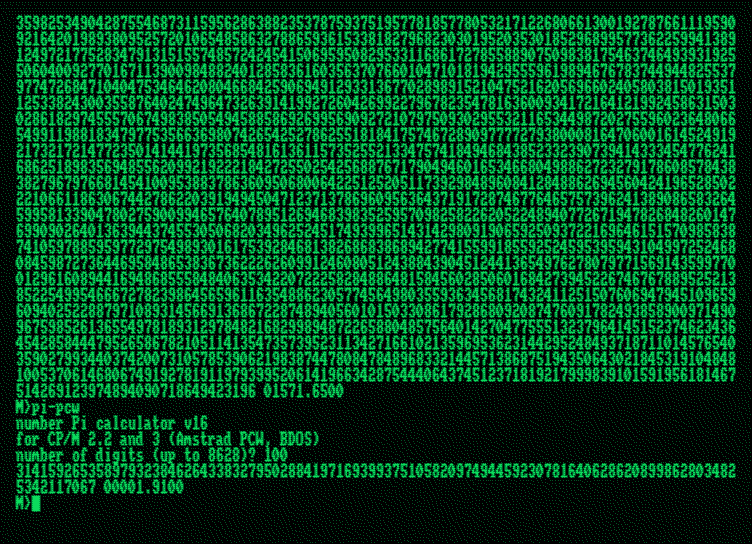
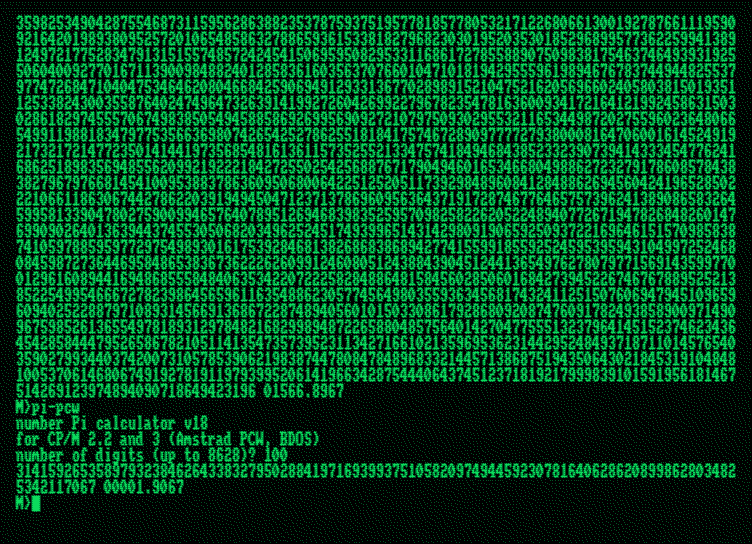
pipack #76

Changed region(s): [[0.0306, 0.6875, 0.6423, 1.0]]

diff --git a/pi-spigot-benchmark/pi-spigot-benchmark.html b/pi-spigot-benchmark/pi-spigot-benchmark.html
@@ -309,7 +309,7 @@ ma.push({computer: "Macintosh SE", OS: "MacOS 3.3", driver: "mac-1", connection:
 ma.push({computer: "Macintosh Classic", OS: "MacOS 7.5", driver: "mac-6", connection: "display", t100: 0.4, t1000: 18.5, t3000: 149.68, maxd: 9224, source: "iron (thanks to Yandex Museum)", estimation: false, comment: "", cpu: "68000", freq: 7.83, year: 1990, href: "https://en.wikipedia.org/wiki/Macintosh_Classic", cpu100: 0.17, cpu1000: 15.9, cpu3000: 142.58, fixed: 0, screenshot: "rp/mac-classic.jpg"})
 ma.push({computer: "BBC Micro (TUBE)", OS: "Pandora", driver: "bbc-pandora-2", connection: "display", t100: 0.24, t1000: 21.3, t3000: 190, maxd: 9188, source: "real iron (thanks to Chris)", estimation: true, comment: "", cpu: "32016", freq: 6, year: 1985, href: "https://en.wikipedia.org/wiki/BBC_Micro_expansion_unit#32016_Second_Processor", cpu100: -1, cpu1000: -1, cpu3000: -1, fixed: 0, screenshot: "rp/bbc-micro-acorn-pandora.png"})
 ma.push({computer: "BBC Micro (TUBE)", OS: "PanOS", driver: "bbc-panos-2", connection: "display", t100: 0.28, t1000: 21.6, t3000: 191, maxd: 9264, source: "real iron (thanks to Chris)", estimation: true, comment: "", cpu: "32016", freq: 6, year: 1985, href: "https://en.wikipedia.org/wiki/BBC_Micro_expansion_unit#32016_Second_Processor", cpu100: -1, cpu1000: -1, cpu3000: -1, fixed: 0, screenshot: "rp/bbc-micro-acorn-panos.png"})
-ma.push({computer: "MSX turbo R", OS: "ROM Basic", driver: "msx-9", connection: "display", t100: 0.23, t1000: 21.7, t3000: 194.35, maxd: 3000, source: "openmsx 0.18.0", estimation: false, comment: "Panasonic FS-A1ST", cpu: "R800", freq: 7.16, year: 1990, href: "https://en.wikipedia.org/wiki/MSX", cpu100: -1, cpu1000: -1, cpu3000: -1, fixed: 0, screenshot: "rp/msx-turbor.png"})
+ma.push({computer: "MSX turbo R", OS: "ROM Basic", driver: "msx-10", connection: "display", t100: 0.23, t1000: 21.62, t3000: 193.7, maxd: 3000, source: "openmsx 0.18.0", estimation: false, comment: "Panasonic FS-A1ST", cpu: "R800", freq: 7.16, year: 1990, href: "https://en.wikipedia.org/wiki/MSX", cpu100: -1, cpu1000: -1, cpu3000: -1, fixed: 0, screenshot: "rp/msx-turbor.png"})
 ma.push({computer: "microPDP-11/83", OS: "RT11SB", driver: "rt11-noeis-11", connection: "terminal", t100: 0.23, t1000: 18.65, t3000: 167.29, maxd: 6396, source: "real iron (thanks to form)", estimation: true, comment: "", cpu: "J11", freq: 18, year: 1985, href: "https://gunkies.org/wiki/PDP-11/83", cpu100: 0.21, cpu1000: 18.38, cpu3000: 166.41, fixed: 1, screenshot: ""})
 ma.push({computer: "PDP-11/93", OS: "2.11BSD", driver: "pdp11-211bsd-noeis-8", connection: "terminal", t100: 0.25, t1000: 19.77, t3000: 174.13, maxd: 6916, source: "real iron (thanks to bqt)", estimation: true, comment: "", cpu: "J11", freq: 18, year: 1985, href: "https://gunkies.org/wiki/PDP-11/93", cpu100: -1, cpu1000: -1, cpu3000: -1, fixed: 0, screenshot: ""})
 ma.push({computer: "IBM PC 5160/XT", OS: "DOS", driver: "ibmpc-7", connection: "display", t100: 0.42, t1000: 23.91, t3000: 201.46, maxd: 9264, source: "real iron (thanks to RadRacer203) ", estimation: false, comment: "0.44/25.15/212.85", cpu: "V20", freq: 4.77, year: 1982, href: "https://en.wikipedia.org/wiki/IBM_Personal_Computer_XT", cpu100: -1, cpu1000: -1, cpu3000: -1, fixed: 0, screenshot: ""})
@@ -335,33 +335,33 @@ ma.push({computer: "TI-99/4A (E/A+32KB RAM)/NTSC", OS: "Basic", driver: "ti99-4a
 ma.push({computer: "BBC Micro (TUBE)", OS: "ROM Basic", driver: "bbc-8", connection: "display", t100: 0.79, t1000: 77.22, t3000: 690.39, maxd: 3800, source: "real iron (thanks to BigEd and Kieran)", estimation: true, comment: "B-em to real iron ratio is 1:1.0214 for 1000, lower for more digits ", cpu: "65C02", freq: 4, year: 1986, href: "https://en.wikipedia.org/wiki/BBC_Micro_expansion_unit#Universal_Second_Processor_Unit", cpu100: -1, cpu1000: -1, cpu3000: -1, fixed: 0, screenshot: ""})
 ma.push({computer: "VAX 11/730", OS: "BSD 4.3", driver: "vax-bsd-1", connection: "tcp/ip", t100: 1.5, t1000: 87.2, t3000: 737, maxd: 9244, source: "real iron (thanks to LCM+L)", estimation: false, comment: "1.499/87.179/736.891", cpu: "KA730", freq: 3.7, year: 1982, href: "https://gunkies.org/wiki/VAX-11/730", cpu100: -1, cpu1000: -1, cpu3000: -1, fixed: 0, screenshot: ""})
 ma.push({computer: "&#x414;BK-2M", OS: "RT11SJ (Y) 5.04", driver: "rt11-noeis-11", connection: "display", t100: .86, t1000: 75.01, t3000: 700.89, maxd: 6156, source: "real iron (thanks to MiX)", estimation: true, comment: "", cpu: "K1801BM3", freq: 6, year: 1987, href: "https://en.wikipedia.org/wiki/DVK", cpu100: 0.79, cpu1000: 74.45, cpu3000: 699.23, fixed: 2, screenshot: ""})  //cpu100, ... are taken from eis-approx
-ma.push({computer: "BBC Micro (TUBE)", OS: "ROM Z80 Basic", driver: "bbc-z80-6", connection: "display", t100: 0.95, t1000: 88.51, t3000: 793.51, maxd: 6216, source: "real iron (thanks to BigEd) + B-em v-756742d", estimation: true, comment: "B-em to real iron ratio is 1:1.00459", cpu: "Z80", freq: 6, year: 1984, href: "https://en.wikipedia.org/wiki/BBC_Micro_expansion_unit#Z80_Second_Processor", cpu100: -1, cpu1000: -1, cpu3000: -1, fixed: 0, screenshot: "rp/bbc-micro-acorn-z80-basic.png"})
-ma.push({computer: "BBC Micro (TUBE)", OS: "CP/M", driver: "cpm22bios-17-acorn", connection: "display", t100: .95, t1000: 88.55, t3000: 793.63, maxd: 8192, source: "real iron (thanks to BigEd) + B-em v-756742d", estimation: true, comment: "B-em to real iron ratio is 1:1.00459", cpu: "Z80", freq: 6, year: 1984, href: "https://en.wikipedia.org/wiki/BBC_Micro_expansion_unit#Z80_Second_Processor", cpu100: -1, cpu1000: -1, cpu3000: -1, fixed: 0, screenshot: "rp/bbc-micro-acorn-z80-cpm.png"})
-ma.push({computer: "BBC Micro (TUBE)", OS: "ROM Basic", driver: "bbc-8", connection: "display", t100: 1.09, t1000: 106.43, t3000: 951.16, maxd: 3800, source: "real iron (thanks to BigEd and hoglet)", estimation: true, comment: "Beebem to real iron ratio is 1:1.0494", cpu: "65C02", freq: 3, year: 1984, href: "http://beebwiki.mdfs.net/6502_Second_Processor", cpu100: -1, cpu1000: -1, cpu3000: -1, fixed: 0, screenshot: ""})
+ma.push({computer: "BBC Micro (TUBE)", OS: "ROM Z80 Basic", driver: "bbc-z80-7", connection: "display", t100: 0.95, t1000: 88.19, t3000: 790.61, maxd: 6216, source: "real iron (thanks to BigEd) + B-em v-756742d", estimation: true, comment: "iron/B-em ratio is 1:1.00494", cpu: "Z80", freq: 6, year: 1984, href: "https://en.wikipedia.org/wiki/BBC_Micro_expansion_unit#Z80_Second_Processor", cpu100: -1, cpu1000: -1, cpu3000: -1, fixed: 0, screenshot: ""})  //1.05 96.65 866.43 v3 pack 24 //rp/bbc-micro-acorn-z80-basic.png
+ma.push({computer: "BBC Micro (TUBE)", OS: "CP/M", driver: "cpm22bios-18-acorn", connection: "display", t100: .95, t1000: 88.23, t3000: 790.73, maxd: 8192, source: "real iron (thanks to BigEd) + B-em v-756742d", estimation: true, comment: "iron/B-em ratio is 1:1.00459", cpu: "Z80", freq: 6, year: 1984, href: "https://en.wikipedia.org/wiki/BBC_Micro_expansion_unit#Z80_Second_Processor", cpu100: -1, cpu1000: -1, cpu3000: -1, fixed: 0, screenshot: ""}) //rp/bbc-micro-acorn-z80-cpm.png
+ma.push({computer: "BBC Micro (TUBE)", OS: "ROM Basic", driver: "bbc-8", connection: "display", t100: 1.09, t1000: 106.43, t3000: 951.16, maxd: 3800, source: "real iron (thanks to BigEd and hoglet)", estimation: true, comment: "iron/B-em ratio is 1:1.00494", cpu: "65C02", freq: 3, year: 1984, href: "http://beebwiki.mdfs.net/6502_Second_Processor", cpu100: -1, cpu1000: -1, cpu3000: -1, fixed: 0, screenshot: ""})
 ma.push({computer: "&#x414;BK-2M", OS: "RT11SJ (Y) 5.04", driver: "rt11-noeis-11", connection: "display", t100: 1.04, t1000: 92.51, t3000: 825.63, maxd: 6156, source: "real iron (thanks to MiX)", estimation: true, comment: "", cpu: "K1801BM2", freq: 8.3, year: 1986, href: "https://en.wikipedia.org/wiki/DVK", cpu100: -1, cpu1000: -1, cpu3000: -1, fixed: 0, screenshot: ""})
 ma.push({computer: "PDP-11/34A", OS: "RT11 5.01 XM", driver: "rt11-noeis-11", connection: "display", t100: 1.2, t1000: 102.11, t3000: 908.11, maxd: 6396, source: "real iron (thanks to elb) ", estimation: true, comment: "", cpu: "KD11-EA", freq: 16.7, year: 1978, href: "https://gunkies.org/wiki/PDP-11/34A", cpu100: -1, cpu1000: -1, cpu3000: -1, fixed: 0, screenshot: ""})
 ma.push({computer: "&#x423;KH&#x426;", OS: "RT11SB 5.07", driver: "rt11-noeis-11", connection: "display", t100: 1.28, t1000: 109.48, t3000: 974.96, maxd: 6624, source: "UKNCBTL 1.0 11-02-2024", estimation: false, comment: "", cpu: "K1801BM2", freq: 8, year: 1987, href: "https://en.wikipedia.org/wiki/UKNC", cpu100: -1, cpu1000: -1, cpu3000: -1, fixed: 0, screenshot: "rp/uknc-noeis.png"})
 ma.push({computer: "Commodore +4/PAL", OS: "ROM Basic", driver: "plus4-13", connection: "display", t100: 1.48, t1000: 143.53, t3000: 1281.52, maxd: 8080, source: "real iron", estimation: false, comment: "", cpu: "7501", freq: 2.2, year: 1984, href: "https://en.wikipedia.org/wiki/Commodore_Plus/4", cpu100: -1, cpu1000: -1, cpu3000: -1, fixed: 0, screenshot: "rp/plus4-pal.png"})
 ma.push({computer: "Commodore +4/NTSC", OS: "ROM Basic", driver: "plus4-13", connection: "display", t100: 1.83, t1000: 177.45, t3000: 1584.5, maxd: 8080, source: "plus4emu 1.2.9.2", estimation: false, comment: "", cpu: "7501", freq: 1.79, year: 1984, href: "https://en.wikipedia.org/wiki/Commodore_Plus/4", cpu100: -1, cpu1000: -1, cpu3000: -1, fixed: 0, screenshot: "rp/plus4-ntsc.png"})
-ma.push({computer: "BBC Micro (TUBE Torch)", OS: "CPN", driver: "cpm22bdos-17-torch", connection: "display", t100: 1.41, t1000: 134.9, t3000: 1200.11, maxd: 8676, source: "real iron (thanks to danielj) + BeebEm 4.19", estimation: true, comment: "", cpu: "Z80", freq: 4, year: 1984, href: "https://en.wikipedia.org/wiki/BBC_Micro_expansion_unit#Other_Second_Processors", cpu100: -1, cpu1000: -1, cpu3000: -1, fixed: 0, screenshot: "rp/bbc-micro-torch-cpn.png"}) //the original data from danielj was for v3/pack #16, Beebem 4.19 to real iron ratio is 1:1.32 [100], 1:1.41 [1000/3000]
+ma.push({computer: "BBC Micro (TUBE Torch)", OS: "CPN", driver: "cpm22bdos-18-torch", connection: "display", t100: 1.41, t1000: 134.41, t3000: 1195.72, maxd: 8676, source: "real iron (thanks to danielj) + BeebEm 4.19", estimation: true, comment: "", cpu: "Z80", freq: 4, year: 1984, href: "https://en.wikipedia.org/wiki/BBC_Micro_expansion_unit#Other_Second_Processors", cpu100: -1, cpu1000: -1, cpu3000: -1, fixed: 0, screenshot: ""}) //the original data from danielj was for v3/pack #16, Beebem 4.19 to real iron ratio is 1:1.32 [100], 1:1.41 [1000/3000] //rp/bbc-micro-torch-cpn.png
 ma.push({computer: "BBC Micro", OS: "ROM Basic", driver: "bbc-8", connection: "display", t100: 1.64, t1000: 157.85, t3000: 1409.76, maxd: 3436, source: "real iron (thanks to BigEd and hoglet)", estimation: true, comment: "B-em to real iron ratio is 1:1", cpu: "6502", freq: 2, year: 1981, href: "https://en.wikipedia.org/wiki/BBC_Micro", cpu100: -1, cpu1000: -1, cpu3000: -1, fixed: 0, screenshot: "rp/bbc-micro.png"})
 ma.push({computer: "Tandy CoCo 3/NTSC", OS: "ROM Basic", driver: "coco-2", connection: "display", t100: 1.68, t1000: 155.13, t3000: 1391.67, maxd: 3064, source: "XRoar 1.07", estimation: false, comment: "", cpu: "6809", freq: 1.79, year: 1986, href: "https://en.wikipedia.org/wiki/TRS-80_Color_Computer", cpu100: -1, cpu1000: -1, cpu3000: -1, fixed: 0, screenshot: "rp/coco3.png"})
 ma.push({computer: "Tandy CoCo 2B/NTSC", OS: "ROM Basic", driver: "coco-1", connection: "display", t100: 1.7, t1000: 156.43, t3000: 1403.35, maxd: 3032, source: "XRoar 0.34.1", estimation: false, comment: "XRoar 0.34.1 1.7/157.6/1414", cpu: "6809", freq: 1.79, year: 1983, href: "https://en.wikipedia.org/wiki/TRS-80_Color_Computer", cpu100: -1, cpu1000: -1, cpu3000: -1, fixed: 0, screenshot: "rp/coco2b.png"})
 ma.push({computer: "Dragon 32", OS: "ROM Basic", driver: "dragon-4", connection: "display", t100: 1.72, t1000: 157.54, t3000: 1413.93, maxd: 3100, source: "real iron (thanks to robcfg)", estimation: false, comment: "XRoar 0.34.1 1.7/157.6/1414", cpu: "6809", freq: 1.78, year: 1982, href: "https://en.wikipedia.org/wiki/Dragon_32/64", cpu100: -1, cpu1000: -1, cpu3000: -1, fixed: 0, screenshot: "rp/dragon32.png"})
 ma.push({computer: "Commodore 128/NTSC", OS: "ROM Basic", driver: "c128-14", connection: "display-40", t100: 1.5, t1000: 155.1, t3000: 1384.6, maxd: 5376, source: "VICE 3.7.1", estimation: false, comment: "", cpu: "8502", freq: 2.05, year: 1985, href: "https://en.wikipedia.org/wiki/Commodore_128", cpu100: -1, cpu1000: -1, cpu3000: -1, fixed: 0, screenshot: "rp/c128-ntsc.png"})
 ma.push({computer: "Commodore 128/PAL", OS: "ROM Basic", driver: "c128-14", connection: "display-40", t100: 1.6, t1000: 161.1, t3000: 1439.1, maxd: 5376, source: "VICE 3.7.1", estimation: false, comment: "", cpu: "8502", freq: 1.97, year: 1985, href: "https://en.wikipedia.org/wiki/Commodore_128", cpu100: 1.6, cpu1000: 160.6, cpu3000: 1436.8, fixed: 0, screenshot: "rp/c128-pal.png"})  //5376 - 4615.5s
-ma.push({computer: "ZX Spectrum 48k", OS: "ROM Basic", driver: "zx-4", connection: "display", t100: 1.72, t1000: 153.93, t3000: 1374.5, maxd: 4400, source: "ep128emu 2.0.11", estimation: false, comment: "", cpu: "Z80", freq: 3.5, year: 1982, href: "https://en.wikipedia.org/wiki/ZX_Spectrum", cpu100: -1, cpu1000: -1, cpu3000: -1, fixed: 0, screenshot: "rp/zx.png"})
-ma.push({computer: "Amstrad CPC6128", OS: "ROM Basic", driver: "cpc-10", connection: "display", t100: 1.87, t1000: 161.07, t3000: 1435.38, maxd: 5500, source: "ep128emu 2.0.11", estimation: false, comment: "", cpu: "Z80", freq: 4, year: 1985, href: "https://en.wikipedia.org/wiki/Amstrad_CPC", cpu100: -1, cpu1000: -1, cpu3000: -1, fixed: 0, screenshot: "rp/cpc6128-basic.png"})
-ma.push({computer: "Tiki-100", OS: "KP/M", driver: "cpm22bios-17-tiki100", connection: "display", t100: 1.86, t1000: 160.91, t3000: 1435.42, maxd: 7604, source: "real iron (thanks to per) + tikiemul 1.1.1", estimation: true, comment: "", cpu: "Z80", freq: 4, year: 1984, href: "https://en.wikipedia.org/wiki/Tiki_100", cpu100: -1, cpu1000: -1, cpu3000: -1, fixed: 0, screenshot: ""}) //rp/tiki-100.png
-ma.push({computer: "Amstrad CPC6128", OS: "CP/M 2.2", driver: "cpm22bios-16-cpc6128", connection: "display", t100: 1.98, t1000: 169.01, t3000: 1504.83, maxd: 5960, source: "ep128emu 2.0.11", estimation: false, comment: "", cpu: "Z80", freq: 4, year: 1985, href: "https://en.wikipedia.org/wiki/Amstrad_CPC", cpu100: -1, cpu1000: -1, cpu3000: -1, fixed: 0, screenshot: "rp/cpc6128-cpm22.png"})
-ma.push({computer: "Amstrad CPC6128", OS: "CP/M 3", driver: "cpc-cpm3-13", connection: "display", t100: 2.18, t1000: 176.84, t3000: 1566.27, maxd: 8628, source: "ep128emu 2.0.11", estimation: false, comment: "", cpu: "Z80", freq: 4, year: 1985, href: "https://en.wikipedia.org/wiki/Amstrad_CPC", cpu100: 1.87, cpu1000: 172.66, cpu3000: 1555.62, fixed: 0, screenshot: "rp/cpc6128-cpm3.png"})
-ma.push({computer: "Amstrad CPC6128", OS: "CP/M 3", driver: "cpc-cpm3-13", connection: "disk", t100: 3.61, t1000: 176.47, t3000: 1564.80, maxd: 8336, source: "ep128emu 2.0.11", estimation: false, comment: "", cpu: "Z80", freq: 4, year: 1985, href: "https://en.wikipedia.org/wiki/Amstrad_CPC", cpu100: -1, cpu1000: -1, cpu3000: -1, fixed: 0, screenshot: ""})
-ma.push({computer: "Amstrad PCW8256", OS: "CP/M 3", driver: "cpm22bdos-16-pcw8256", connection: "display", t100: 1.9, t1000: 175.47, t3000: 1571.65, maxd: 8628, source: "CP/M Box 1.9.2", estimation: false, comment: "", cpu: "Z80", freq: 4, year: 1985, href: "https://en.wikipedia.org/wiki/Amstrad_PCW", cpu100: -1, cpu1000: -1, cpu3000: -1, fixed: 0, screenshot: "rp/pcw8256.png"})
-ma.push({computer: "ABC 802", OS: "ROM Basic", driver: "abc800-3", connection: "display", t100: 1.91, t1000: 176.13, t3000: 1578.73, maxd: 3084, source: "MAME/MESS 0.239", estimation: false, comment: "", cpu: "Z80", freq: 3, year: 1981, href: "https://en.wikipedia.org/wiki/ABC_800", cpu100: -1, cpu1000: -1, cpu3000: -1, fixed: 0, screenshot: "rp/abc802.png"})
+ma.push({computer: "ZX Spectrum 48k", OS: "ROM Basic", driver: "zx-5", connection: "display", t100: 1.72, t1000: 153.45, t3000: 1370.27, maxd: 4400, source: "ep128emu 2.0.11", estimation: false, comment: "", cpu: "Z80", freq: 3.5, year: 1982, href: "https://en.wikipedia.org/wiki/ZX_Spectrum", cpu100: -1, cpu1000: -1, cpu3000: -1, fixed: 0, screenshot: "rp/zx.png"})
+ma.push({computer: "Amstrad CPC6128", OS: "ROM Basic", driver: "cpc-11", connection: "display", t100: 1.87, t1000: 160.59, t3000: 1431.05, maxd: 5500, source: "ep128emu 2.0.11", estimation: false, comment: "", cpu: "Z80", freq: 4, year: 1985, href: "https://en.wikipedia.org/wiki/Amstrad_CPC", cpu100: -1, cpu1000: -1, cpu3000: -1, fixed: 0, screenshot: "rp/cpc6128-basic.png"})
+ma.push({computer: "Tiki-100", OS: "KP/M", driver: "cpm22bios-18-tiki100", connection: "display", t100: 1.86, t1000: 160.33, t3000: 1430.17, maxd: 7604, source: "real iron (thanks to per) + tikiemul 1.1.1", estimation: true, comment: "", cpu: "Z80", freq: 4, year: 1984, href: "https://en.wikipedia.org/wiki/Tiki_100", cpu100: -1, cpu1000: -1, cpu3000: -1, fixed: 0, screenshot: ""}) //rp/tiki-100.png
+ma.push({computer: "Amstrad CPC6128", OS: "CP/M 2.2", driver: "cpm22bios-18-cpc6128", connection: "display", t100: 1.98, t1000: 168.51, t3000: 1500.33, maxd: 5960, source: "ep128emu 2.0.11", estimation: false, comment: "", cpu: "Z80", freq: 4, year: 1985, href: "https://en.wikipedia.org/wiki/Amstrad_CPC", cpu100: -1, cpu1000: -1, cpu3000: -1, fixed: 0, screenshot: "rp/cpc6128-cpm22.png"})
+ma.push({computer: "Amstrad CPC6128", OS: "CP/M 3", driver: "cpc-cpm3-14", connection: "display", t100: 2.16, t1000: 176.3, t3000: 1561.58, maxd: 8628, source: "ep128emu 2.0.11", estimation: false, comment: "", cpu: "Z80", freq: 4, year: 1985, href: "https://en.wikipedia.org/wiki/Amstrad_CPC", cpu100: 1.87, cpu1000: 172.95, cpu3000: 1550.91, fixed: 0, screenshot: "rp/cpc6128-cpm3.png"})
+ma.push({computer: "Amstrad CPC6128", OS: "CP/M 3", driver: "cpc-cpm3-14", connection: "disk", t100: 3.43, t1000: 175.95, t3000: 1560.66, maxd: 8336, source: "ep128emu 2.0.11", estimation: false, comment: "", cpu: "Z80", freq: 4, year: 1985, href: "https://en.wikipedia.org/wiki/Amstrad_CPC", cpu100: -1, cpu1000: -1, cpu3000: -1, fixed: 0, screenshot: ""})
+ma.push({computer: "Amstrad PCW8256", OS: "CP/M 3", driver: "cpm22bdos-18-pcw8256", connection: "display", t100: 1.9, t1000: 174.98, t3000: 1566.9, maxd: 8628, source: "CP/M Box 1.9.2", estimation: false, comment: "", cpu: "Z80", freq: 4, year: 1985, href: "https://en.wikipedia.org/wiki/Amstrad_PCW", cpu100: -1, cpu1000: -1, cpu3000: -1, fixed: 0, screenshot: "rp/pcw8256.png"})
+ma.push({computer: "ABC 802", OS: "ROM Basic", driver: "abc800-4", connection: "display", t100: 1.9, t1000: 175.54, t3000: 1573.45, maxd: 3084, source: "MAME/MESS 0.239", estimation: false, comment: "", cpu: "Z80", freq: 3, year: 1981, href: "https://en.wikipedia.org/wiki/ABC_800", cpu100: -1, cpu1000: -1, cpu3000: -1, fixed: 0, screenshot: "rp/abc802.png"})
 ma.push({computer: "Atari 800XL/NTSC", OS: "ROM Basic", driver: "atari800xl-6", connection: "display", t100: 1.9, t1000: 185.5, t3000: 1655.99, maxd: 4536, source: "atari800 4.2.0", estimation: false, comment: "", cpu: "6502", freq: 1.79, year: 1983, href: "https://en.wikipedia.org/wiki/Atari_8-bit_family", cpu100: -1, cpu1000: -1, cpu3000: -1, fixed: 0, screenshot: "rp/atari800xl-ntsc.png"})
 ma.push({computer: "Atari 800XL/PAL", OS: "ROM Basic", driver: "atari800xl-6", connection: "display", t100: 1.93, t1000: 187.1, t3000: 1670.48, maxd: 4536, source: "atari800 4.2.0", estimation: false, comment: "", cpu: "6502", freq: 1.77, year: 1983, href: "https://en.wikipedia.org/wiki/Atari_8-bit_family", cpu100: -1, cpu1000: -1, cpu3000: -1, fixed: 0, screenshot: "rp/atari800xl-pal.png"})
-ma.push({computer: "Sanyo MPC-25FD", OS: "ROM Basic", driver: "msx-9", connection: "display", t100: 2.03, t1000: 186.27, t3000: 1668.82, maxd: 3000, source: "openmsx 0.18.0", estimation: false, comment: "MSX 1, 2, 2+", cpu: "Z80", freq: 3.58, year: 1985, href: "https://en.wikipedia.org/wiki/MSX", cpu100: -1, cpu1000: -1, cpu3000: -1, fixed: 0, screenshot: "rp/msx-basic.png"})
-ma.push({computer: "Sanyo MPC-25FD", OS: "MSX DOS", driver: "cpm22bdos-16-msx", connection: "display", t100: 2.17, t1000: 193.0, t3000: 1721.87, maxd: 7424, source: "openmsx 0.18.0", estimation: false, comment: "MSX 2", cpu: "Z80", freq: 3.58, year: 1985, href: "https://en.wikipedia.org/wiki/MSX", cpu100: -1, cpu1000: -1, cpu3000: -1, fixed: 0, screenshot: "rp/msx-dos.png"})
+ma.push({computer: "Sanyo MPC-25FD", OS: "ROM Basic", driver: "msx-10", connection: "display", t100: 2.03, t1000: 185.6, t3000: 1662.72, maxd: 3000, source: "openmsx 0.18.0", estimation: false, comment: "MSX 1, 2, 2+", cpu: "Z80", freq: 3.58, year: 1985, href: "https://en.wikipedia.org/wiki/MSX", cpu100: -1, cpu1000: -1, cpu3000: -1, fixed: 0, screenshot: "rp/msx-basic.png"})
+ma.push({computer: "Sanyo MPC-25FD", OS: "MSX DOS", driver: "cpm22bdos-18-msx", connection: "display", t100: 2.22, t1000: 192.28, t3000: 1715.55, maxd: 7424, source: "openmsx 0.18.0", estimation: false, comment: "MSX 2", cpu: "Z80", freq: 3.58, year: 1985, href: "https://en.wikipedia.org/wiki/MSX", cpu100: -1, cpu1000: -1, cpu3000: -1, fixed: 0, screenshot: "rp/msx-dos.png"})
 ma.push({computer: "&#x411;K0011M", OS: "&#x411;K0010 ROM emu", driver: "bk11-9", connection: "display", t100: 2.51, t1000: 217.86, t3000: 1943.43, maxd: 4388, source: "gid-emu v4.3.2305.8825", estimation: false, comment: "", cpu: "K1801BM1", freq: 4, year: 1989, href: "https://en.wikipedia.org/wiki/Electronika_BK", cpu100: -1, cpu1000: -1, cpu3000: -1, fixed: 0, screenshot: "rp/bk0011m.png"})
 ma.push({computer: "&#x411;K0010", OS: "ROM Monitor", driver: "bk10-9", connection: "display", t100: 2.71, t1000: 232.93, t3000: 2076.880, maxd: 3800, source: "BK2010 v0.7", estimation: false, comment: "", cpu: "K1801BM1", freq: 3, year: 1985, href: "https://en.wikipedia.org/wiki/Electronika_BK", cpu100: -1, cpu1000: -1, cpu3000: -1, fixed: 0, screenshot: "rp/bk0010.png"})
 ma.push({computer: "&#x411;K0011M", OS: "ROM Monitor", driver: "bk11-bos-9", connection: "display", t100: 2.61, t1000: 218.9, t3000: 1946.35, maxd: 4240, source: "gid-emu v4.3.2305.8825", estimation: false, comment: "", cpu: "K1801BM1", freq: 4, year: 1989, href: "https://en.wikipedia.org/wiki/Electronika_BK", cpu100: -1, cpu1000: -1, cpu3000: -1, fixed: 0, screenshot: "rp/bk0011m-bos.png"})
@@ -381,22 +381,22 @@ ma.push({computer: "Apple IIc", OS: "Applesoft Basic", driver: "apple2c-65c02-2"
 ma.push({computer: "Apple IIe", OS: "Applesoft Basic", driver: "apple2e-2", connection: "display", t100: 3.17, t1000: 311.58, t3000: 2784.5, maxd: 4748, source: "MAME 0.229", estimation: false, comment: "", cpu: "6502", freq: 1.02, year: 1983, href: "https://en.wikipedia.org/wiki/Apple_IIe", cpu100: -1, cpu1000: -1, cpu3000: -1, fixed: 0, screenshot: ""})
 ma.push({computer: "Kop&#x432;e&#x442;", OS: "CP/M 2.2", driver: "cpm22bios-8080-7-korvet", connection: "display", t100: 2.68, t1000: 230.54, t3000: 2045.66, maxd: 7496, source: "Emu80 4.0.457", estimation: false, comment: "", cpu: "8080", freq: 2.5, year: 1987, href: "https://en.wikipedia.org/wiki/Corvette_(computer)", cpu100: 2.64, cpu1000: 229.92, cpu3000: 2043.5, fixed: 0, screenshot: "rp/korvet.png"})
 ma.push({computer: "Kop&#x432;e&#x442;", OS: "CP/M 2.2", driver: "cpm22bdos-8080-6-korvet", connection: "display", t100: 2.72, t1000: 230.82, t3000: 2046.52, maxd: 6984, source: "Emu80 4.0.457", estimation: false, comment: "", cpu: "8080", freq: 2.5, year: 1987, href: "https://en.wikipedia.org/wiki/Corvette_(computer)", cpu100: -1, cpu1000: -1, cpu3000: -1, fixed: 0, screenshot: "rp/korvet-bdos.png"})
-ma.push({computer: "Tandy TRS-80 Model I", OS: "TRSDOS 2.3", driver: "trsdos-m1-3", connection: "display", t100: 3.38, t1000: 310.03, t3000: 2779.63, maxd: 6032, source: "trs80gp v2.5.3", estimation: false, comment: "", cpu: "Z80", freq: 1.77, year: 1977, href: "https://en.wikipedia.org/wiki/TRS-80", cpu100: -1, cpu1000: -1, cpu3000: -1, fixed: 0, screenshot: "rp/trs-80-m1.png"})
-ma.push({computer: "Tandy TRS-80 Model II", OS: "Pickles &amp; Trout CP/M", driver: "cpm22pt-bios-17", connection: "display", t100: 1.47, t1000: 134.8, t3000: 1207.22, maxd: 8192, source: "trs80gp v2.5.3", estimation: false, comment: "", cpu: "Z80", freq: 4.00, year: 1979, href: "https://en.wikipedia.org/wiki/TRS-80_Model_II", cpu100: -1, cpu1000: -1, cpu3000: -1, fixed: 0, screenshot: "rp/trs-80-m2.png"})
-ma.push({computer: "Tandy TRS-80 Model III", OS: "TRSDOS 1.3", driver: "trsdos-m3-3", connection: "display", t100: 2.9, t1000: 264.87, t3000: 2371.9, maxd: 6032, source: "trs80gp v2.5.3", estimation: false, comment: "", cpu: "Z80", freq: 2.03, year: 1980, href: "https://en.wikipedia.org/wiki/TRS-80", cpu100: -1, cpu1000: -1, cpu3000: -1, fixed: 0, screenshot: "rp/trs-80-m3.png"})
-ma.push({computer: "Tandy TRS-80 Model 4", OS: "TRSDOS 6.2", driver: "trsdos-m4-3", connection: "display", t100: 1.97, t1000: 177.97, t3000: 1592.93, maxd: 7276, source: "trs80gp v2.5.3", estimation: false, comment: "", cpu: "Z80", freq: 4.06, year: 1983, href: "https://en.wikipedia.org/wiki/TRS-80_Model_4", cpu100: -1, cpu1000: -1, cpu3000: -1, fixed: 0, screenshot: "rp/trs-80-m4.png"})
-ma.push({computer: "Tandy TRS-80 Model 4P or D", OS: "TRSDOS 6.2", driver: "trsdos-m4-3", connection: "display", t100: 1.52, t1000: 137.05, t3000: 1226.55, maxd: 7276, source: "trs80gp v2.5.3", estimation: false, comment: "", cpu: "Z80", freq: 4.06, year: 1983, href: "https://en.wikipedia.org/wiki/TRS-80_Model_4", cpu100: -1, cpu1000: -1, cpu3000: -1, fixed: 0, screenshot: "rp/trs-80-m4p.png"})
-ma.push({computer: "Commodore 128/NTSC", OS: "CP/M 3", driver: "cpm22bdos-16-c128", connection: "display-40", t100: 3.2, t1000: 263.3, t3000: 2338.6, maxd: 8156, source: "VICE 3.8", estimation: false, comment: "", cpu: "Z80", freq: 2.05, year: 1985, href: "https://en.wikipedia.org/wiki/Commodore_128", cpu100: 2.8, cpu1000: 259.2, cpu3000: 2325.4, fixed: 0, screenshot: "rp/c128-cpm-40col-ntsc.png"})
-ma.push({computer: "Commodore 128/NTSC", OS: "CP/M 3", driver: "cpm22bdos-16-c128", connection: "display-80", t100: 3.1, t1000: 262.2, t3000: 2334.7, maxd: 8156, source: "VICE 3.8", estimation: false, comment: "", cpu: "Z80", freq: 2.05, year: 1985, href: "https://en.wikipedia.org/wiki/Commodore_128", cpu100: 2.8, cpu1000: 259.1, cpu3000: 2325.4, fixed: 0, screenshot: "rp/c128-cpm-80col-ntsc.png"})
-ma.push({computer: "Commodore 128/PAL", OS: "CP/M 3", driver: "cpm22bdos-16-c128", connection: "display-40", t100: 3.2, t1000: 273.3, t3000: 2427.6, maxd: 8156, source: "VICE 3.7.1", estimation: false, comment: "", cpu: "Z80", freq: 1.97, year: 1985, href: "https://en.wikipedia.org/wiki/Commodore_128", cpu100: 2.8, cpu1000: 269.0, cpu3000: 2413.9, fixed: 0, screenshot: "rp/c128-cpm-40col.png"})  //8156 - 18284.0
-ma.push({computer: "Commodore 128/PAL", OS: "CP/M 3", driver: "cpm22bdos-16-c128", connection: "display-80", t100: 3.2, t1000: 272.2, t3000: 2423.6, maxd: 8156, source: "VICE 3.8", estimation: false, comment: "", cpu: "Z80", freq: 1.97, year: 1985, href: "https://en.wikipedia.org/wiki/Commodore_128", cpu100: 2.9, cpu1000: 269.0, cpu3000: 2413.9, fixed: 0, screenshot: "rp/c128-cpm-80col.png"})
-ma.push({computer: "Commodore 128/PAL", OS: "CP/M 3", driver: "cpm22bdos-16-c128", connection: "disk C1541", t100: 15.7, t1000: 344, t3000: 3025.3, maxd: 7860, source: "VICE 3.8", estimation: false, comment: "", cpu: "Z80", freq: 1.97, year: 1985, href: "https://en.wikipedia.org/wiki/Commodore_128", cpu100: -1, cpu1000: -1, cpu3000: -1, fixed: 0, screenshot: ""})
-ma.push({computer: "Commodore 128/PAL", OS: "CP/M 3", driver: "cpm22bdos-16-c128", connection: "disk C1571", t100: 8.1, t1000: 336.5, t3000: 3000.6, maxd: 7860, source: "VICE 3.8", estimation: false, comment: "", cpu: "Z80", freq: 1.97, year: 1985, href: "https://en.wikipedia.org/wiki/Commodore_128", cpu100: -1, cpu1000: -1, cpu3000: -1, fixed: 0, screenshot: ""})
-ma.push({computer: "Commodore 128/PAL", OS: "ROM Basic", driver: "c128-z80-2", connection: "display-40", t100: 2.9, t1000: 270.4, t3000: 2419, maxd: 7348, source: "VICE 3.8", estimation: false, comment: "", cpu: "Z80", freq: 1.97, year: 1985, href: "https://en.wikipedia.org/wiki/Commodore_128", cpu100: -1, cpu1000: -1, cpu3000: -1, fixed: 0, screenshot: "rp/c128-z80-40col.png"})
-ma.push({computer: "Commodore 128/PAL", OS: "ROM Basic", driver: "c128-z80-2", connection: "display-80", t100: 3, t1000: 270.3, t3000: 2418.1, maxd: 7348, source: "VICE 3.8", estimation: false, comment: "", cpu: "Z80", freq: 1.97, year: 1985, href: "https://en.wikipedia.org/wiki/Commodore_128", cpu100: -1, cpu1000: -1, cpu3000: -1, fixed: 0, screenshot: ""}) //7348 - 14739.1
-ma.push({computer: "Commodore 128/NTSC", OS: "ROM Basic", driver: "c128-z80-2", connection: "display-80", t100: 2.9, t1000: 260.4, t3000: 2329.5, maxd: 7348, source: "VICE 3.8", estimation: false, comment: "", cpu: "Z80", freq: 2.05, year: 1985, href: "https://en.wikipedia.org/wiki/Commodore_128", cpu100: -1, cpu1000: -1, cpu3000: -1, fixed: 0, screenshot: ""})
-ma.push({computer: "Sony HB-F700P", OS: "ROM Basic", driver: "msx-9", connection: "display", t100: 2.04, t1000: 188.13, t3000: 1686.53, maxd: 3000, source: "real iron (thanks to Yandex Museum)", estimation: true, comment: "MSX 2", cpu: "Z80", freq: 3.58, year: 1986, href: "https://www.msx.org/wiki/Category:Sony_HB-F700", cpu100: -1, cpu1000: -1, cpu3000: -1, fixed: 0, screenshot: "rp/sony-HB-F700P.jpg"})
-ma.push({computer: "Sony HB-F700P", OS: "MSX DOS", driver: "cpm22bdos-16-msx", connection: "display", t100: 2.24, t1000: 194.51, t3000: 1735.24, maxd: 7424, source: "real iron (thanks to Yandex Museum)", estimation: true, comment: "MSX 2", cpu: "Z80", freq: 3.58, year: 1986, href: "https://www.msx.org/wiki/Category:Sony_HB-F700", cpu100: -1, cpu1000: -1, cpu3000: -1, fixed: 0, screenshot: ""})
+ma.push({computer: "Tandy TRS-80 Model I", OS: "TRSDOS 2.3", driver: "trsdos-m1-4", connection: "display", t100: 3.38, t1000: 309.28, t3000: 2770.43, maxd: 6032, source: "trs80gp v2.5.3", estimation: false, comment: "", cpu: "Z80", freq: 1.77, year: 1977, href: "https://en.wikipedia.org/wiki/TRS-80", cpu100: -1, cpu1000: -1, cpu3000: -1, fixed: 0, screenshot: "rp/trs-80-m1.png"})
+ma.push({computer: "Tandy TRS-80 Model II", OS: "Pickles &amp; Trout CP/M", driver: "cpm22pt-bios-18", connection: "display", t100: 1.47, t1000: 134.35, t3000: 1203.23, maxd: 8192, source: "trs80gp v2.5.3", estimation: false, comment: "", cpu: "Z80", freq: 4.00, year: 1979, href: "https://en.wikipedia.org/wiki/TRS-80_Model_II", cpu100: -1, cpu1000: -1, cpu3000: -1, fixed: 0, screenshot: "rp/trs-80-m2.png"})
+ma.push({computer: "Tandy TRS-80 Model III", OS: "TRSDOS 1.3", driver: "trsdos-m3-4", connection: "display", t100: 2.87, t1000: 263.93, t3000: 2364.03, maxd: 6032, source: "trs80gp v2.5.3", estimation: false, comment: "", cpu: "Z80", freq: 2.03, year: 1980, href: "https://en.wikipedia.org/wiki/TRS-80", cpu100: -1, cpu1000: -1, cpu3000: -1, fixed: 0, screenshot: "rp/trs-80-m3.png"})
+ma.push({computer: "Tandy TRS-80 Model 4", OS: "TRSDOS 6.2", driver: "trsdos-m4-4", connection: "display", t100: 1.97, t1000: 177.28, t3000: 1586.8, maxd: 7276, source: "trs80gp v2.5.3", estimation: false, comment: "", cpu: "Z80", freq: 4.06, year: 1983, href: "https://en.wikipedia.org/wiki/TRS-80_Model_4", cpu100: -1, cpu1000: -1, cpu3000: -1, fixed: 0, screenshot: "rp/trs-80-m4.png"})
+ma.push({computer: "Tandy TRS-80 Model 4P or D", OS: "TRSDOS 6.2", driver: "trsdos-m4-4", connection: "display", t100: 1.52, t1000: 136.6, t3000: 1222.5, maxd: 7276, source: "trs80gp v2.5.3", estimation: false, comment: "", cpu: "Z80", freq: 4.06, year: 1983, href: "https://en.wikipedia.org/wiki/TRS-80_Model_4", cpu100: -1, cpu1000: -1, cpu3000: -1, fixed: 0, screenshot: "rp/trs-80-m4p.png"})
+ma.push({computer: "Commodore 128/NTSC", OS: "CP/M 3", driver: "cpm22bdos-18-c128", connection: "display-40", t100: 3.2, t1000: 262.4, t3000: 2330.9, maxd: 8156, source: "VICE 3.8", estimation: false, comment: "", cpu: "Z80", freq: 2.05, year: 1985, href: "https://en.wikipedia.org/wiki/Commodore_128", cpu100: 2.8, cpu1000: 258.3, cpu3000: 2317.6, fixed: 0, screenshot: "rp/c128-cpm-40col-ntsc.png"})
+ma.push({computer: "Commodore 128/NTSC", OS: "CP/M 3", driver: "cpm22bdos-18-c128", connection: "display-80", t100: 3.1, t1000: 261.3, t3000: 2327.1, maxd: 8156, source: "VICE 3.8", estimation: false, comment: "", cpu: "Z80", freq: 2.05, year: 1985, href: "https://en.wikipedia.org/wiki/Commodore_128", cpu100: 2.7, cpu1000: 258.3, cpu3000: 2317.7, fixed: 0, screenshot: "rp/c128-cpm-80col-ntsc.png"})
+ma.push({computer: "Commodore 128/PAL", OS: "CP/M 3", driver: "cpm22bdos-18-c128", connection: "display-40", t100: 3.3, t1000: 272.5, t3000: 2419.6, maxd: 8156, source: "VICE 3.8", estimation: false, comment: "", cpu: "Z80", freq: 1.97, year: 1985, href: "https://en.wikipedia.org/wiki/Commodore_128", cpu100: 2.8, cpu1000: 268.1, cpu3000: 2405.9, fixed: 0, screenshot: "rp/c128-cpm-40col.png"})  //8156 - 18225.0 io=1
+ma.push({computer: "Commodore 128/PAL", OS: "CP/M 3", driver: "cpm22bdos-18-c128", connection: "display-80", t100: 3.2, t1000: 271.3, t3000: 2415.6, maxd: 8156, source: "VICE 3.8", estimation: false, comment: "", cpu: "Z80", freq: 1.97, year: 1985, href: "https://en.wikipedia.org/wiki/Commodore_128", cpu100: 2.8, cpu1000: 268.2, cpu3000: 2405.9, fixed: 0, screenshot: "rp/c128-cpm-80col.png"})
+ma.push({computer: "Commodore 128/PAL", OS: "CP/M 3", driver: "cpm22bdos-18-c128", connection: "disk C1541", t100: 15.2, t1000: 342.1, t3000: 3014.7, maxd: 7860, source: "VICE 3.8", estimation: false, comment: "", cpu: "Z80", freq: 1.97, year: 1985, href: "https://en.wikipedia.org/wiki/Commodore_128", cpu100: -1, cpu1000: -1, cpu3000: -1, fixed: 0, screenshot: ""})
+ma.push({computer: "Commodore 128/PAL", OS: "CP/M 3", driver: "cpm22bdos-18-c128", connection: "disk C1571", t100: 7.6, t1000: 335.1, t3000: 2990.5, maxd: 7860, source: "VICE 3.8", estimation: false, comment: "", cpu: "Z80", freq: 1.97, year: 1985, href: "https://en.wikipedia.org/wiki/Commodore_128", cpu100: -1, cpu1000: -1, cpu3000: -1, fixed: 0, screenshot: ""})
+ma.push({computer: "Commodore 128/PAL", OS: "ROM Basic", driver: "c128-z80-3", connection: "display-40", t100: 2.9, t1000: 269.5, t3000: 2411, maxd: 7348, source: "VICE 3.8", estimation: false, comment: "", cpu: "Z80", freq: 1.97, year: 1985, href: "https://en.wikipedia.org/wiki/Commodore_128", cpu100: -1, cpu1000: -1, cpu3000: -1, fixed: 0, screenshot: "rp/c128-z80-40col.png"})
+ma.push({computer: "Commodore 128/PAL", OS: "ROM Basic", driver: "c128-z80-3", connection: "display-80", t100: 3, t1000: 269.5, t3000: 2410.1, maxd: 7348, source: "VICE 3.8", estimation: false, comment: "", cpu: "Z80", freq: 1.97, year: 1985, href: "https://en.wikipedia.org/wiki/Commodore_128", cpu100: -1, cpu1000: -1, cpu3000: -1, fixed: 0, screenshot: ""}) //7348 - 14691.1 io=1
+ma.push({computer: "Commodore 128/NTSC", OS: "ROM Basic", driver: "c128-z80-3", connection: "display-80", t100: 2.9, t1000: 259.5, t3000: 2321.8, maxd: 7348, source: "VICE 3.8", estimation: false, comment: "", cpu: "Z80", freq: 2.05, year: 1985, href: "https://en.wikipedia.org/wiki/Commodore_128", cpu100: -1, cpu1000: -1, cpu3000: -1, fixed: 0, screenshot: ""})
+ma.push({computer: "Sony HB-F700P", OS: "ROM Basic", driver: "msx-10", connection: "display", t100: 2.04, t1000: 187.45, t3000: 1680.37, maxd: 3000, source: "real iron (thanks to Yandex Museum)", estimation: true, comment: "MSX 2", cpu: "Z80", freq: 3.58, year: 1986, href: "https://www.msx.org/wiki/Category:Sony_HB-F700", cpu100: -1, cpu1000: -1, cpu3000: -1, fixed: 0, screenshot: ""})
+ma.push({computer: "Sony HB-F700P", OS: "MSX DOS", driver: "cpm22bdos-18-msx", connection: "display", t100: 2.24, t1000: 193.78, t3000: 1728.87, maxd: 7424, source: "real iron (thanks to Yandex Museum)", estimation: true, comment: "MSX 2", cpu: "Z80", freq: 3.58, year: 1986, href: "https://www.msx.org/wiki/Category:Sony_HB-F700", cpu100: -1, cpu1000: -1, cpu3000: -1, fixed: 0, screenshot: ""})
 ma.push({computer: "Macintosh LC580", OS: "MacOS 7.5.3", driver: "mac-4", connection: "display", t100: 0.03, t1000: 0.99, t3000: 7.6, maxd: 9228, source: "real iron (thanks to Yandex Museum)", estimation: false, comment: "", cpu: "68LC040", freq: 33, year: 1995, href: "https://en.wikipedia.org/wiki/Macintosh_LC_500_series#LC_580", cpu100: 0, cpu1000: 0.77, cpu3000: 6.93, fixed: 0, screenshot: "rp/mac-lc580.jpg"})  //9200 no io 63.87, 6000 io 30.50 
 ma.push({computer: "Macintosh LC580", OS: "MacOS 7.5", driver: "mac20-4", connection: "display", t100: 0.03, t1000: 1.00, t3000: 7.62, maxd: 9228, source: "real iron (thanks to Yandex Museum)", estimation: false, comment: "", cpu: "68LC040", freq: 33, year: 1995, href: "https://en.wikipedia.org/wiki/Macintosh_LC_500_series#LC_580", cpu100: 0, cpu1000: 0.77, cpu3000: 6.92, fixed: 0, screenshot: "rp/mac-lc580-68020.jpg"})  //9200 no io 65.17
 ma.push({computer: "EC-1841", OS: "DOS", driver: "ibmpc-8", connection: "display", t100: 0.64, t1000: 40.42, t3000: 350.4, maxd: 9264, source: "real iron (thanks to Yandex Museum)", estimation: false, comment: "", cpu: "8086", freq: 4.77, year: 1987, href: "https://en.wikipedia.org/wiki/ES_PEVM", cpu100: 0.41, cpu1000: 38.20, cpu3000: 343.44, fixed: 0, screenshot: "rp/es1841.jpg"})
@@ -535,17 +535,17 @@ ma.sort(function(a, b){ return a.t3000 - b.t3000 })
 <tr><td>scpu64-7<td>65816<td align=right>250+768=1018<sup>*5</sup><td align=right>[1764+228+2]=1994<sup>*7</sup>
 <tr><td>apple2gs-1<td>65816<td align=right>250+768=1018<sup>*5</sup><td align=right>1906+416=2322<sup>*1</sup>
 <tr><td>msx-9<td>Z80<td align=right>725+768=1493<sup>*5</sup><td align=right>1799+452=2251<sup>*1</sup>
-<tr><td>abc800-3<td>Z80<td align=right>725+768=1493<sup>*5</sup><td align=right>4431<sup>*8</sup>
-<tr><td>zx-4<td>Z80<td align=right>725+768=1493<sup>*5</sup><td align=right>4666<sup>*3</sup>
+<tr><td>abc800-4<td>Z80<td align=right>725+768=1493<sup>*5</sup><td align=right>4431<sup>*8</sup>
+<tr><td>zx-5<td>Z80<td align=right>725+768=1493<sup>*5</sup><td align=right>4666<sup>*3</sup>
 <tr><td>bbc-z80-6<td>Z80<td align=right>1078+768=1846<sup>*5</sup><td align=right>2048+289=2337<sup>*1</sup>
-<tr><td>cpm22bios-17<td>Z80<td align=right>1078+768=1846<sup>*5</sup><td align=right>2534&mdash;2570
-<tr><td>trsdos-m1-3<td>Z80<td align=right>1078+768=1848<sup>*5</sup><td align=right>2544
-<tr><td>trsdos-m3-3<td>Z80<td align=right>1078+768=1848<sup>*5</sup><td align=right>2546
-<tr><td>cpc-cpm3-13<td>Z80<td align=right>1078+768=1846<sup>*5</sup><td align=right>2544
-<tr><td>trsdos-m4-3<td>Z80<td align=right>1078+768=1848<sup>*5</sup><td align=right>2559
-<tr><td>cpc-10<td>Z80<td align=right>1078+768=1848<sup>*5</sup><td align=right>2060+575=2635<sup>*1</sup>
-<tr><td>c128-z80-2<td>Z80<td align=right>1078+768=1848<sup>*5</sup><td align=right>[2304+511+2]=2817<sup>*7</sup>
-<tr><td>cpm22bdos-16<td>Z80<td align=right>1078+768=1848<sup>*5</sup><td align=right>2541&mdash;2807
+<tr><td>cpm22bios-18<td>Z80<td align=right>1078+768=1846<sup>*5</sup><td align=right>2534&mdash;2570
+<tr><td>trsdos-m1-4<td>Z80<td align=right>1078+768=1848<sup>*5</sup><td align=right>2544
+<tr><td>trsdos-m3-4<td>Z80<td align=right>1078+768=1848<sup>*5</sup><td align=right>2546
+<tr><td>cpc-cpm3-14<td>Z80<td align=right>1078+768=1846<sup>*5</sup><td align=right>2544
+<tr><td>trsdos-m4-4<td>Z80<td align=right>1078+768=1848<sup>*5</sup><td align=right>2559
+<tr><td>cpc-11<td>Z80<td align=right>1078+768=1848<sup>*5</sup><td align=right>2060+575=2635<sup>*1</sup>
+<tr><td>c128-z80-3<td>Z80<td align=right>1078+768=1848<sup>*5</sup><td align=right>[2304+511+2]=2817<sup>*7</sup>
+<tr><td>cpm22bdos-18<td>Z80<td align=right>1078+768=1848<sup>*5</sup><td align=right>2541&mdash;2807
 <tr><td>tandy100-4<td>8085<td align=right>1425+768=2193<sup>*5</sup><td align=right>2469+415=2884<sup>*1</sup>
 <tr><td>cpm22bios-8080-7<td>8080<td align=right>1832+768=2260<sup>*5</sup><td align=right>3320&ndash;3325
 <tr><td>vic20-3<td>6502<td align=right>2353+768=3121<sup>*5*6</sup><td align=right>[3497+264+2]=3773<sup>*7</sup>
@@ -574,7 +574,7 @@ Square brackets combine part sizes that are parts of one file.<br>
 <br>
 <p>Thanks a lot to the people who helped: bqt, ivagor, perestoronin, blackmirror, BigEd, tricky, MMS, Thorham, meynaf, saimo, Don_Adan, mizapf, modrobert, a/b, ...
 <hr>
-<p>Download the sources and executables (<a href=https://drive.google.com/file/d/10lSF_zo0ypiQSS5whiBxNRyAU6LKv2uH/view?usp=sharing>v75 [183 KB]</a>) pack.
+<p>Download the sources and executables (<a href=https://drive.google.com/file/d/10KDiVMVvDJYlgGG0DcB1oPz_oXGF5waS/view?usp=sharing>v76 [192 KB]</a>) pack.
 <p><a href=https://github.com/litwr2/rosetta-pi-spigot>Sources</a> <a href=pipacks.html>Archive</a> <script>document.write(mirror())</script>
 <script>
 drawTabs()

diff --git a/pi-spigot-benchmark/pipacks.html b/pi-spigot-benchmark/pipacks.html
@@ -77,5 +77,6 @@
 <br><a href=https://drive.google.com/file/d/1gGaDo31Q5OMEIIrO548uSkdT6L_Y5m4J/view?usp=share_link>Version 72 pack</a>.
 <br><a href=https://drive.google.com/file/d/1gapvqYeTL-vaoPpU60jyCq3hCEB9oDXG/view?usp=drive_link>Version 73 pack</a>.
 <br><a href=https://drive.google.com/file/d/1aUS3lyYhcn9FAirtULgp3bdi_klxGmaj/view?usp=drive_link>Version 74 pack</a>.
+<br><a href=https://drive.google.com/file/d/10lSF_zo0ypiQSS5whiBxNRyAU6LKv2uH/view?usp=sharing>Version 75 pack</a>.
 </div>
 </body>
